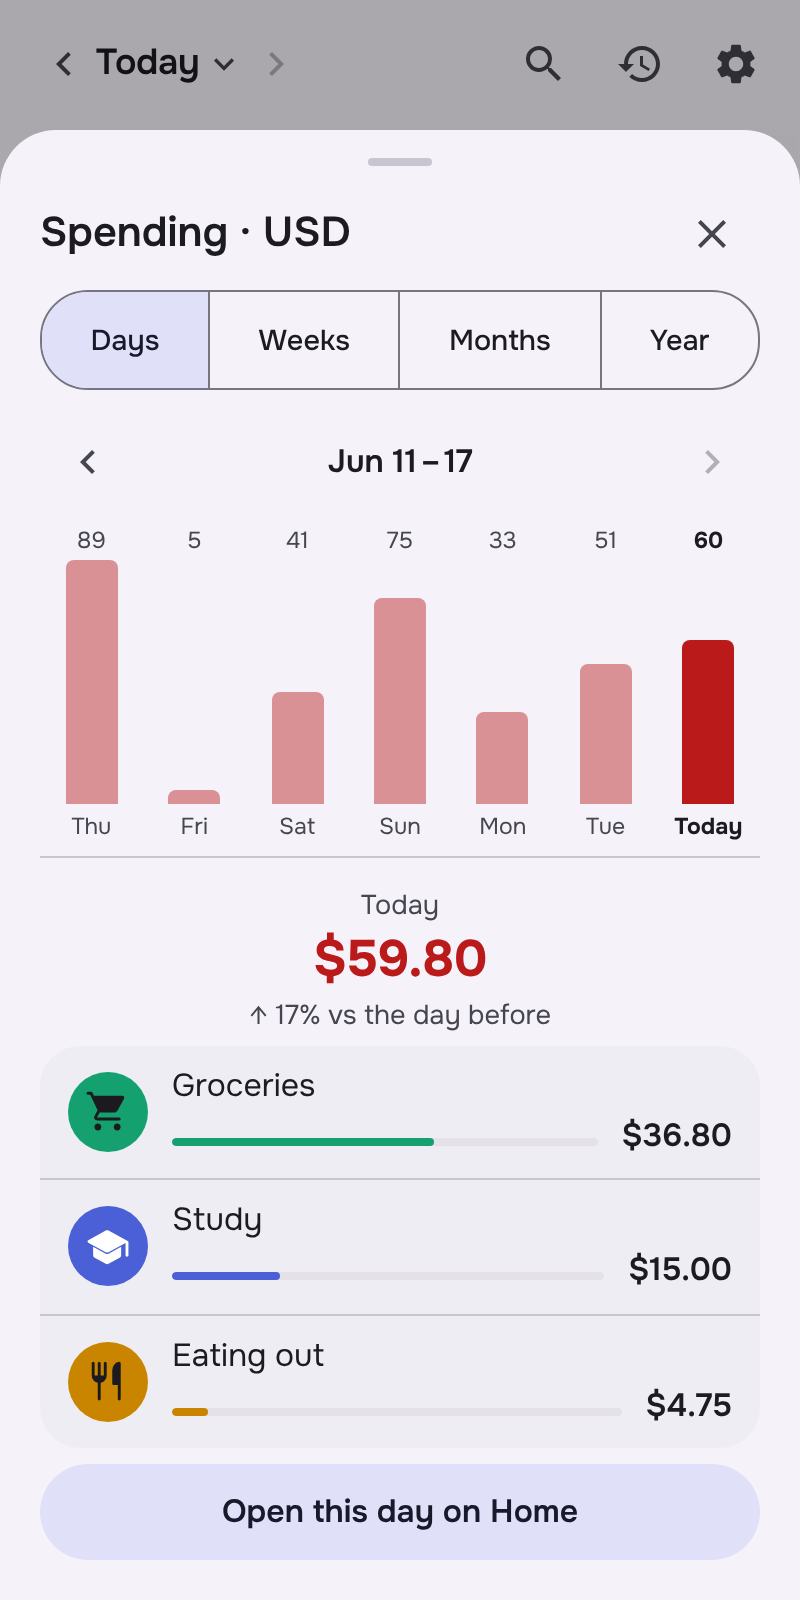
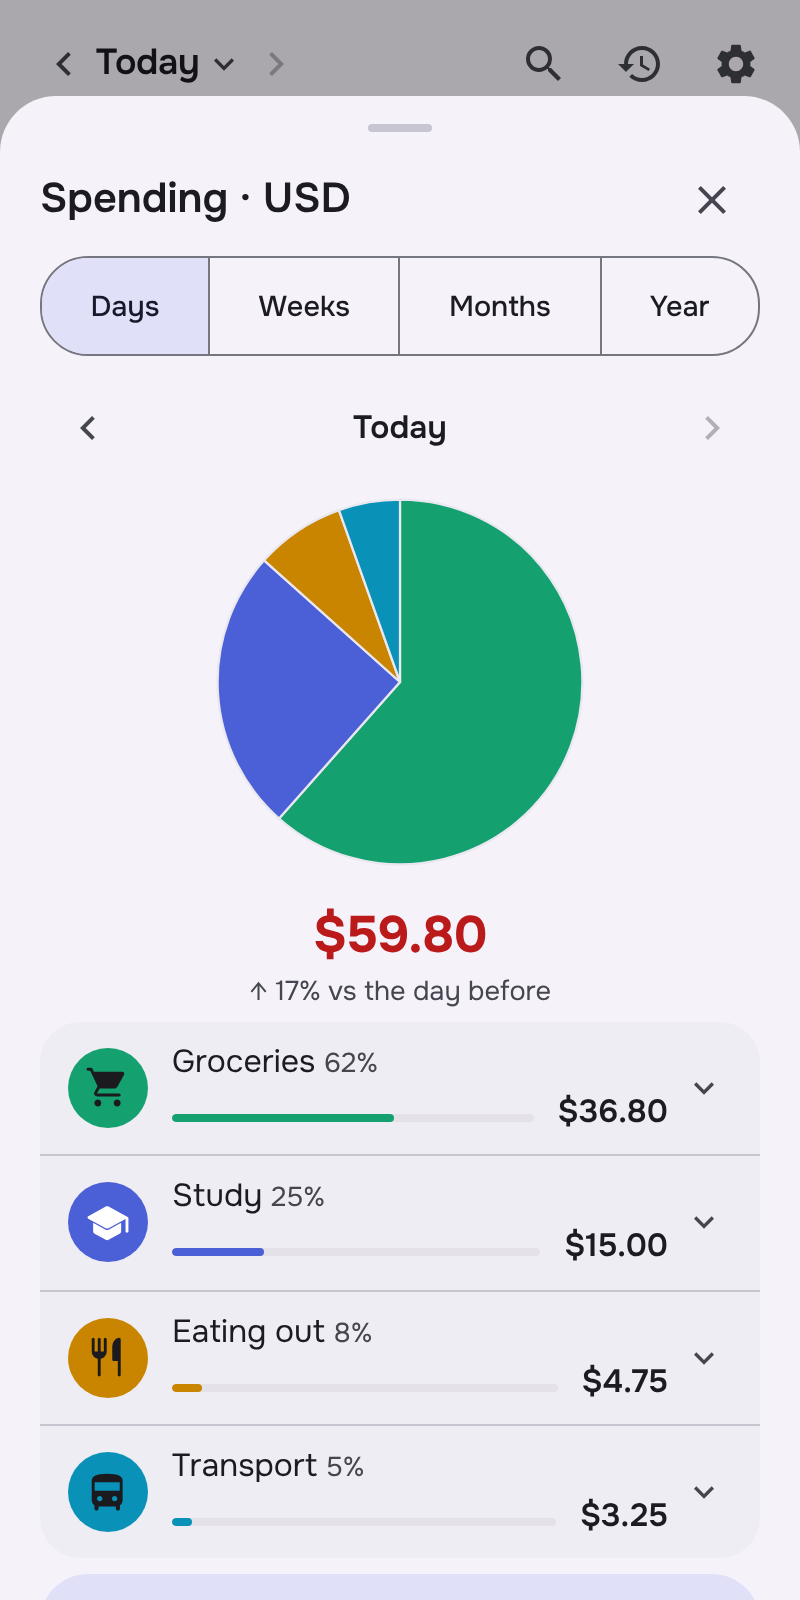
Docs: the preview polish round

diff --git a/docs/decisions.md b/docs/decisions.md
@@ -92,3 +92,8 @@ core, P2 minor, P3 cosmetic).
 - 2026-11-12 · P3 · While selecting in a search that lists archived matches, those matches stay in the list, faded, and can't be selected (no long press, no tick; Select all, Archive selected and Delete selected leave them out) · rows never vanish under the finger (Ruling O); the fade is the maintainer's
 - 2026-11-13 · P3 · History's selection bar shows only the count ("2"); TalkBack still reads "2 selected" · maintainer: with four 48px icons the title didn't fit in de, es, fr, pt-BR and ru at 320px with large text
 - 2026-11-13 · P3 · The Archived button moves from History's top bar to the end of the Filters line, after Clear all, icon only (48px, outlined like Filters, TalkBack "Archived entries"), left out in search and dimmed with the line while selecting · maintainer: "Historique" and four icons didn't fit in the top bar
+- 2026-11-13 · P3 · The charge card's lines are inset from the card's edge, so the card reads as one block under the amount · maintainer's pick (B) from the mock-ups, over lines running to the edge
+- 2026-11-13 · P3 · History has two more kinds, Charges and Extras, after the other kinds in Filters and in search (found by name and by words such as "fee" or "tip", per language), with counts, and month and day headings that read "Charges $X" or "Extras $X" · maintainer, from the mock-ups: charges and extras are things people look for
+- 2026-11-13 · P3 · Summary's Days tab shows one day as a pie of its parts with their shares, as Months shows a month, with ‹ › to move a day; it replaces the 7 bars and their "Today" column · maintainer's pick (A) from the mock-ups
+- 2026-11-13 · P3 · Each row of Summary opens in place to its newest 5 entries, with "Show all N in History" past 5, instead of leaving Summary at once · maintainer, from the mock-ups
+- 2026-11-13 · P3 · History's Charges kind also lists purchases that carry a charge, while Summary's Charges part counts only charges outside purchases (a purchase's charge counts in its category); each list's own rows show why, and "Show all N" counts what History will list · decided during the build so that every charge can be found in History; for the maintainer to confirm on the preview

diff --git a/docs/specs/charges.md b/docs/specs/charges.md
@@ -431,12 +431,12 @@ Spending only, as in C-summary:
 
 - Every tab's bars, total, average and comparison include charges and worked-out spending; extras are not in Summary.
 - **The list ends with a Charges line** whenever the period has charges outside purchases: a grey dot where a
-  category's emblem would be, **Charges**, its percentage on Months and Year ("Charges <1%"), a grey bar and the
-  amount. On Days and Weeks it comes after the three top categories; on Months and Year after all of them, whatever its
+  category's emblem would be, **Charges**, its percentage on Days, Months and Year ("Charges <1%"), a grey bar and the
+  amount. On Weeks it comes after the three top categories; on Days, Months and Year after all of them, whatever its
   size. It is Summary's legend.
-- The Months pie ends with the grey slice.
+- The Days and Months pies end with the grey slice.
 - TalkBack: "Charges, ৳158.00, less than 1%", each line one sentence (a category's alike: "Rent, ৳120,000.00, 68%";
-  no share on Days and Weeks).
+  no share on Weeks).
 - **Each line opens in place** (a button with a chevron, expanded or collapsed for TalkBack; one open at a time) to the
   entries behind its amount in the tab's period, worked out from the same items Summary adds up: newest first, at most
   5, read-only, each as History's two lines without the category: what it was | the amount it counts in this part, no
@@ -444,7 +444,8 @@ Spending only, as in C-summary:
   it is worked out on), then the day (Days: the time it was written down) and the account. Only the Summary's currency;
   an archived entry is not listed, as in History. Past 5, "Show all 8 in History" opens History on the tab's period (a
   week as a date range) with Spent and that category, or the Charges kind for Charges; the number is what History will
-  list (History has no currency filter, and its Charges kind also lists purchases with a charge).
+  list (History has no currency filter, and its Charges kind also lists purchases with a charge). A charge whose
+  transfer was deleted (an orphan fee, from old data) is in Summary's Charges part but not in History's Charges kind.
 
 ### Assets and Liabilities
 

diff --git a/CHANGELOG.md b/CHANGELOG.md
@@ -50,6 +50,11 @@ and versions follow [Semantic Versioning](https://semver.org/).
   "Archived", each with Unarchive and Delete. While selecting they are faded and can't be picked.
 - History's bar, its Filters line and the month in view stay at the top while the entries scroll, the next month's
   heading taking over; Settings keeps its bar and the section in view the same way.
+- **Charges** and **Extras** as kinds in History's Filters and in search, with their counts; search finds them by
+  name and by words such as "fee" or "tip" in each language, and their month and day headings read "Charges" or
+  "Extras" with the amount.
+- **Summary rows open in place** to the newest 5 entries behind their amount, with **Show all** opening History on
+  the same period and part.
 - **Charges and extras.** Each has its own calculator and a preview of what it adds up to:
   - a **transfer charge** (an ATM or cash-out fee) on a transfer, on a loan payment and on a lend, and **Add a charge**
     on spending, such as VAT or a service charge;
@@ -88,8 +93,9 @@ and versions follow [Semantic Versioning](https://semver.org/).
   edge where more chips wait.
 - Loans and lendings say each thing once: a row reads person and what's left, then the account and due date beside its
   status (Active, Partly paid); the loan's sheet leaves out what the row already says.
-- The Summary shows whole amounts on every tab (a compact form such as 12.4K only from five digits), and its Months tab
-  shows the month's categories as a pie, with the total under it.
+- The Summary shows whole amounts on every tab (a compact form such as 12.4K only from five digits), and its Days and
+  Months tabs show one day's or one month's categories as a pie, with the total under it. Days is no longer the last 7
+  days as bars; use ‹ › to move a day.
 - Small marks: History's Select icon is a checklist; the net worth card has no explaining line and the same soft
   container in light and dark; a category's emblem is the button that changes it (a pen over a dark tint, replacing the
   "Change emblem" text); amount fields start with the currency's own decimals ("4,167.50"); negative balances use a

diff --git a/docs/plans/2026-11-01-release-1.5.0.md b/docs/plans/2026-11-01-release-1.5.0.md
@@ -148,6 +148,9 @@ Items 9 (password-protected backups) and 10 (app lock) moved to 1.6.0: see docs/
 - [x] 13. Version bump, `CHANGELOG.md` section, `fastlane/metadata/android/*/changelogs/10500.txt`
       Done 2026-11-13: 1.5.0 (10500), CHANGELOG section, 10500.txt in the 9 store languages, and the store text's
       transfers heading and Look back paragraph (year, all time, search, filters, archive).
+- [x] 13a. Preview polish round (2026-11-13, from the maintainer's first look at the preview): no focus ring after
+      Enter in search, the archive icon centred, the charge card's lines inset, History's Charges and Extras kinds,
+      the Summary's Days tab as one day's pie, and Summary rows that open in place (docs/decisions.md)
 - [ ] 14. Preview build tested by the maintainer on a phone (over the installed release) → merge → CI tags `v1.5.0`
 
 ## Not in 1.5.0

diff --git a/l10n/GLOSSARY.md b/l10n/GLOSSARY.md
@@ -39,7 +39,8 @@ Never edit `app/src/main/assets/js/i18n/*.js`: `tools/gen_i18n.py` makes them fr
 | spending / spent | money that went out on something (an expense) |
 | money in / received / income | money that came in |
 | transfer | money moved between two of your own accounts; never spending |
-| fee | a charge on a transfer or a loan payment; never counted as spending |
+| fee / charge | a cost paid with an entry (an ATM fee, VAT, a service charge, a loan's interest); counted as spending, in the Charges part (docs/specs/charges.md) |
+| extra | what you receive on top of what you lent (interest, a tip); counted as income |
 | loan / borrowed | money **you** borrowed from someone: you owe it |
 | lending / lent | money **you** lent to someone: they owe you |
 | payment / paid back / got back | money returned on a loan (you paid back) or a lending (you got back) |

diff --git a/README.md b/README.md
@@ -79,7 +79,7 @@ small, calm and fast — no budgets, no charts you have to study, no sign-up.
   entries it leaves. Matches are marked, a typo offers the word it was close to, and your last searches wait under the
   empty field. They stay on this phone only, never in backups. Archived entries are left out, unless **Settings →
   History → Archived entries in search** is on.
-- **Spending summary:** tap the donut for the last 7 days, 8 weeks, a month as a pie of its categories, or a year's 12
+- **Spending summary:** tap the donut for a day or a month as a pie of its categories, the last 8 weeks, or a year's 12
   months, compared with the period before; the bars show whole amounts.
 
 **Around the phone**

diff --git a/docs/design.md b/docs/design.md
@@ -303,7 +303,7 @@ links that would need the internet.
 
 - **No budgets** (until 1.6.0's planned budgeting/planning work), **no statement import**, no bank connections.
 - **No network, analytics, ads, accounts or sign-up**, ever. No remote content.
-- **No charts to study.** Summary shows bars (or, in its Months tab, a pie) and a category list with one comparison;
+- **No charts to study.** Summary shows bars (or, in its Days and Months tabs, a pie) and a category list with one comparison;
   nothing more.
 - **Transfers, loan movements and balance fixes never count as spending or income;** a charge paid with them is
   spending, an extra received on top is income.

diff --git a/docs/specs/41-year-view.md b/docs/specs/41-year-view.md
@@ -15,3 +15,5 @@ Notes:
   migration and a test). Week start (`settings.week`) and locales already handled by period code.
 - Scope fit: views only; nothing added to the one-tap entry path.
 - Status: in 1.4.4 (maintainer, 2026-11-01) with #37 (account colour in History) and account reordering (#33, first part only).
+- 2026-11-13: the Days tab is no longer the last 7 days as bars: it shows one day as a pie, as Months shows a month
+  (docs/decisions.md).
